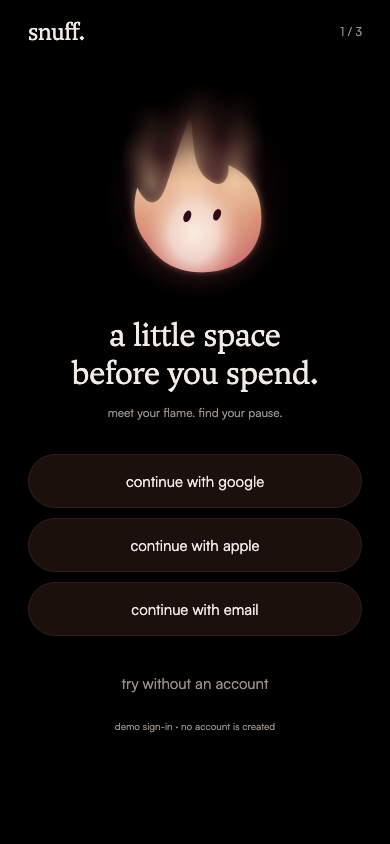
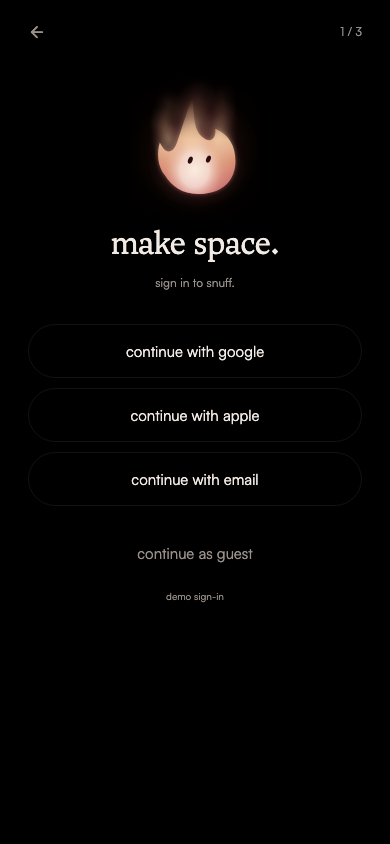
Simplify onboarding and add a flame-only welcome

diff --git a/design-system/snuff/index.html b/design-system/snuff/index.html
@@ -1,3 +1,3 @@
 <!doctype html><html lang="en"><meta charset="utf-8"><meta name="viewport" content="width=device-width,initial-scale=1"><title>snuff · design system</title><link rel="stylesheet" href="tokens.css"><style>
 *{box-sizing:border-box}body{margin:0;background:var(--snuff-colors-bg);color:var(--snuff-colors-text);font-family:var(--snuff-font-body);padding:48px 24px;max-width:1100px;margin:auto}h1,h2{font-family:var(--snuff-font-display);font-weight:400}h1{font-size:64px;margin:0}h2{font-size:32px}p{color:var(--snuff-colors-secondary);line-height:1.6;max-width:720px}a{color:var(--snuff-ember-body)}.flames,.previews{display:flex;gap:16px;flex-wrap:wrap}figure{margin:0;flex:1;min-width:130px;max-width:280px}img{width:100%;height:auto}figcaption{font-size:12px;margin-top:8px;font-family:var(--snuff-font-mono)}.swatches{display:flex;margin-bottom:24px}.swatches span{width:48px;height:32px}section{margin:64px 0}.previews img{width:min(230px,100%);object-fit:contain;align-self:flex-start}
-</style><h1>snuff.</h1><p>gpt-app ver · a small flame, a little space to pause.</p><p><a href="README.md">handoff notes</a> · <a href="tokens.json">json tokens</a> · <a href="tokens.css">css tokens</a> · <a href="https://www.figma.com/design/WHHOz06hrCV1a5g4nKBWt3/Design-System">figma source</a></p><h2>the living companion</h2><p>rounded, warm, quietly expressive. the first image captures the latest petting state; the others show screen composition.</p><div class="previews"><img src="previews/snuff-companion.jpg" alt="snuff companion"><img src="previews/snuff-home.jpg" alt="snuff home"><img src="previews/snuff-social.jpg" alt="snuff social"><img src="previews/snuff-faces.png" alt="snuff profile"></div><h2>original figma flame library</h2><p>six palettes, three native status levels. these original exports provide the atmosphere behind the rounded companion.</p><section><h2>ember</h2><div class="swatches"><span style="background:#FFF3D6" title="core: #FFF3D6"></span><span style="background:#FFD66B" title="body: #FFD66B"></span><span style="background:#F5A524" title="mid: #F5A524"></span><span style="background:#ED7014" title="edge: #ED7014"></span><span style="background:#8E1F02" title="deep: #8E1F02"></span><span style="background:#3A0F02" title="wash: #3A0F02"></span></div><div class="flames"><figure><img src="assets/flames/ember-high.svg" alt="ember high original flame"><figcaption>high</figcaption></figure><figure><img src="assets/flames/ember-low.svg" alt="ember low original flame"><figcaption>low</figcaption></figure><figure><img src="assets/flames/ember-out.svg" alt="ember out original flame"><figcaption>out</figcaption></figure></div></section><section><h2>azure</h2><div class="swatches"><span style="background:#EAFBFF" title="core: #EAFBFF"></span><span style="background:#9BE8FF" title="body: #9BE8FF"></span><span style="background:#43B9FF" title="mid: #43B9FF"></span><span style="background:#1D6BF5" title="edge: #1D6BF5"></span><span style="background:#0A1C7A" title="deep: #0A1C7A"></span><span style="background:#070F2E" title="wash: #070F2E"></span></div><div class="flames"><figure><img src="assets/flames/azure-high.svg" alt="azure high original flame"><figcaption>high</figcaption></figure><figure><img src="assets/flames/azure-low.svg" alt="azure low original flame"><figcaption>low</figcaption></figure><figure><img src="assets/flames/azure-out.svg" alt="azure out original flame"><figcaption>out</figcaption></figure></div></section><section><h2>verdigris</h2><div class="swatches"><span style="background:#F0FFE9" title="core: #F0FFE9"></span><span style="background:#B9F7A8" title="body: #B9F7A8"></span><span style="background:#52D97A" title="mid: #52D97A"></span><span style="background:#15A05A" title="edge: #15A05A"></span><span style="background:#05482F" title="deep: #05482F"></span><span style="background:#04200F" title="wash: #04200F"></span></div><div class="flames"><figure><img src="assets/flames/verdigris-high.svg" alt="verdigris high original flame"><figcaption>high</figcaption></figure><figure><img src="assets/flames/verdigris-low.svg" alt="verdigris low original flame"><figcaption>low</figcaption></figure><figure><img src="assets/flames/verdigris-out.svg" alt="verdigris out original flame"><figcaption>out</figcaption></figure></div></section><section><h2>violet</h2><div class="swatches"><span style="background:#FBEFFF" title="core: #FBEFFF"></span><span style="background:#E0BBFF" title="body: #E0BBFF"></span><span style="background:#B07CFF" title="mid: #B07CFF"></span><span style="background:#7A3CF0" title="edge: #7A3CF0"></span><span style="background:#2E0B6B" title="deep: #2E0B6B"></span><span style="background:#160530" title="wash: #160530"></span></div><div class="flames"><figure><img src="assets/flames/violet-high.svg" alt="violet high original flame"><figcaption>high</figcaption></figure><figure><img src="assets/flames/violet-low.svg" alt="violet low original flame"><figcaption>low</figcaption></figure><figure><img src="assets/flames/violet-out.svg" alt="violet out original flame"><figcaption>out</figcaption></figure></div></section><section><h2>crimson</h2><div class="swatches"><span style="background:#FFEDEC" title="core: #FFEDEC"></span><span style="background:#FFB3AE" title="body: #FFB3AE"></span><span style="background:#FF5F62" title="mid: #FF5F62"></span><span style="background:#D41F49" title="edge: #D41F49"></span><span style="background:#5C0426" title="deep: #5C0426"></span><span style="background:#2A0612" title="wash: #2A0612"></span></div><div class="flames"><figure><img src="assets/flames/crimson-high.svg" alt="crimson high original flame"><figcaption>high</figcaption></figure><figure><img src="assets/flames/crimson-low.svg" alt="crimson low original flame"><figcaption>low</figcaption></figure><figure><img src="assets/flames/crimson-out.svg" alt="crimson out original flame"><figcaption>out</figcaption></figure></div></section><section><h2>ash</h2><div class="swatches"><span style="background:#CFC5BE" title="core: #CFC5BE"></span><span style="background:#9A918B" title="body: #9A918B"></span><span style="background:#6B625C" title="mid: #6B625C"></span><span style="background:#3A3330" title="edge: #3A3330"></span><span style="background:#1C1A19" title="deep: #1C1A19"></span><span style="background:#0B0302" title="wash: #0B0302"></span></div><div class="flames"><figure><img src="assets/flames/ash-high.svg" alt="ash high original flame"><figcaption>high</figcaption></figure><figure><img src="assets/flames/ash-low.svg" alt="ash low original flame"><figcaption>low</figcaption></figure><figure><img src="assets/flames/ash-out.svg" alt="ash out original flame"><figcaption>out</figcaption></figure></div></section><section><h2>a little intention</h2><p>scroll below home to set a goal and customize a five-step blocking plan. rules can be tested in an in-app checkout preview.</p><div class="previews"><img src="previews/snuff-home-goal.png" alt="home goal component"><img src="previews/snuff-goal-block-setup.png" alt="blocking settings flow"></div></section><section><h2>a quiet nudge</h2><p>a large companion, a simple choice, and a little company when you need it.</p><div class="previews"><img src="previews/snuff-notification.png" alt="snuff notification popup"><img src="previews/snuff-notification-friend.png" alt="friend request preview"></div></section><section><h2>for another day</h2><p>save a purchase without counting it as savings. revisit it in the dark lens-scroll archive.</p><div class="previews"><img src="previews/snuff-collection-detail.png" alt="archive sample collection"><img src="previews/snuff-save-for-later.png" alt="save for later notification action"></div></section><section><h2>a little company</h2><p>email or your phone’s contacts, with a deliberate selection before adding anyone.</p><div class="previews"><img src="previews/snuff-contacts.png" alt="sync contacts alongside email"></div></section><section><h2>a small beginning</h2><p>three screens · demo sign-in, optional categories, and personal popup intensity.</p><div class="previews"><img src="previews/snuff-onboarding-1.png" alt="onboarding step 1"><img src="previews/snuff-onboarding-2.png" alt="onboarding step 2"><img src="previews/snuff-onboarding-3.png" alt="onboarding step 3"></div></section></html>
+</style><h1>snuff.</h1><p>gpt-app ver · a small flame, a little space to pause.</p><p><a href="README.md">handoff notes</a> · <a href="tokens.json">json tokens</a> · <a href="tokens.css">css tokens</a> · <a href="https://www.figma.com/design/WHHOz06hrCV1a5g4nKBWt3/Design-System">figma source</a></p><h2>the living companion</h2><p>rounded, warm, quietly expressive. the first image captures the latest petting state; the others show screen composition.</p><div class="previews"><img src="previews/snuff-companion.jpg" alt="snuff companion"><img src="previews/snuff-home.jpg" alt="snuff home"><img src="previews/snuff-social.jpg" alt="snuff social"><img src="previews/snuff-faces.png" alt="snuff profile"></div><h2>original figma flame library</h2><p>six palettes, three native status levels. these original exports provide the atmosphere behind the rounded companion.</p><section><h2>ember</h2><div class="swatches"><span style="background:#FFF3D6" title="core: #FFF3D6"></span><span style="background:#FFD66B" title="body: #FFD66B"></span><span style="background:#F5A524" title="mid: #F5A524"></span><span style="background:#ED7014" title="edge: #ED7014"></span><span style="background:#8E1F02" title="deep: #8E1F02"></span><span style="background:#3A0F02" title="wash: #3A0F02"></span></div><div class="flames"><figure><img src="assets/flames/ember-high.svg" alt="ember high original flame"><figcaption>high</figcaption></figure><figure><img src="assets/flames/ember-low.svg" alt="ember low original flame"><figcaption>low</figcaption></figure><figure><img src="assets/flames/ember-out.svg" alt="ember out original flame"><figcaption>out</figcaption></figure></div></section><section><h2>azure</h2><div class="swatches"><span style="background:#EAFBFF" title="core: #EAFBFF"></span><span style="background:#9BE8FF" title="body: #9BE8FF"></span><span style="background:#43B9FF" title="mid: #43B9FF"></span><span style="background:#1D6BF5" title="edge: #1D6BF5"></span><span style="background:#0A1C7A" title="deep: #0A1C7A"></span><span style="background:#070F2E" title="wash: #070F2E"></span></div><div class="flames"><figure><img src="assets/flames/azure-high.svg" alt="azure high original flame"><figcaption>high</figcaption></figure><figure><img src="assets/flames/azure-low.svg" alt="azure low original flame"><figcaption>low</figcaption></figure><figure><img src="assets/flames/azure-out.svg" alt="azure out original flame"><figcaption>out</figcaption></figure></div></section><section><h2>verdigris</h2><div class="swatches"><span style="background:#F0FFE9" title="core: #F0FFE9"></span><span style="background:#B9F7A8" title="body: #B9F7A8"></span><span style="background:#52D97A" title="mid: #52D97A"></span><span style="background:#15A05A" title="edge: #15A05A"></span><span style="background:#05482F" title="deep: #05482F"></span><span style="background:#04200F" title="wash: #04200F"></span></div><div class="flames"><figure><img src="assets/flames/verdigris-high.svg" alt="verdigris high original flame"><figcaption>high</figcaption></figure><figure><img src="assets/flames/verdigris-low.svg" alt="verdigris low original flame"><figcaption>low</figcaption></figure><figure><img src="assets/flames/verdigris-out.svg" alt="verdigris out original flame"><figcaption>out</figcaption></figure></div></section><section><h2>violet</h2><div class="swatches"><span style="background:#FBEFFF" title="core: #FBEFFF"></span><span style="background:#E0BBFF" title="body: #E0BBFF"></span><span style="background:#B07CFF" title="mid: #B07CFF"></span><span style="background:#7A3CF0" title="edge: #7A3CF0"></span><span style="background:#2E0B6B" title="deep: #2E0B6B"></span><span style="background:#160530" title="wash: #160530"></span></div><div class="flames"><figure><img src="assets/flames/violet-high.svg" alt="violet high original flame"><figcaption>high</figcaption></figure><figure><img src="assets/flames/violet-low.svg" alt="violet low original flame"><figcaption>low</figcaption></figure><figure><img src="assets/flames/violet-out.svg" alt="violet out original flame"><figcaption>out</figcaption></figure></div></section><section><h2>crimson</h2><div class="swatches"><span style="background:#FFEDEC" title="core: #FFEDEC"></span><span style="background:#FFB3AE" title="body: #FFB3AE"></span><span style="background:#FF5F62" title="mid: #FF5F62"></span><span style="background:#D41F49" title="edge: #D41F49"></span><span style="background:#5C0426" title="deep: #5C0426"></span><span style="background:#2A0612" title="wash: #2A0612"></span></div><div class="flames"><figure><img src="assets/flames/crimson-high.svg" alt="crimson high original flame"><figcaption>high</figcaption></figure><figure><img src="assets/flames/crimson-low.svg" alt="crimson low original flame"><figcaption>low</figcaption></figure><figure><img src="assets/flames/crimson-out.svg" alt="crimson out original flame"><figcaption>out</figcaption></figure></div></section><section><h2>ash</h2><div class="swatches"><span style="background:#CFC5BE" title="core: #CFC5BE"></span><span style="background:#9A918B" title="body: #9A918B"></span><span style="background:#6B625C" title="mid: #6B625C"></span><span style="background:#3A3330" title="edge: #3A3330"></span><span style="background:#1C1A19" title="deep: #1C1A19"></span><span style="background:#0B0302" title="wash: #0B0302"></span></div><div class="flames"><figure><img src="assets/flames/ash-high.svg" alt="ash high original flame"><figcaption>high</figcaption></figure><figure><img src="assets/flames/ash-low.svg" alt="ash low original flame"><figcaption>low</figcaption></figure><figure><img src="assets/flames/ash-out.svg" alt="ash out original flame"><figcaption>out</figcaption></figure></div></section><section><h2>a little intention</h2><p>scroll below home to set a goal and customize a five-step blocking plan. rules can be tested in an in-app checkout preview.</p><div class="previews"><img src="previews/snuff-home-goal.png" alt="home goal component"><img src="previews/snuff-goal-block-setup.png" alt="blocking settings flow"></div></section><section><h2>a quiet nudge</h2><p>a large companion, a simple choice, and a little company when you need it.</p><div class="previews"><img src="previews/snuff-notification.png" alt="snuff notification popup"><img src="previews/snuff-notification-friend.png" alt="friend request preview"></div></section><section><h2>for another day</h2><p>save a purchase without counting it as savings. revisit it in the dark lens-scroll archive.</p><div class="previews"><img src="previews/snuff-collection-detail.png" alt="archive sample collection"><img src="previews/snuff-save-for-later.png" alt="save for later notification action"></div></section><section><h2>a little company</h2><p>email or your phone’s contacts, with a deliberate selection before adding anyone.</p><div class="previews"><img src="previews/snuff-contacts.png" alt="sync contacts alongside email"></div></section><section><h2>a small beginning</h2><p>a living-flame welcome, then three concise steps.</p><div class="previews"><img src="previews/snuff-welcome.png" alt="flame-only welcome"><img src="previews/snuff-onboarding-1.png" alt="onboarding step 1"><img src="previews/snuff-onboarding-2.png" alt="onboarding step 2"><img src="previews/snuff-onboarding-3.png" alt="onboarding step 3"></div></section></html>

diff --git a/GPT-App Ver/src/screens/Onboarding.tsx b/GPT-App Ver/src/screens/Onboarding.tsx
@@ -1,5 +1,5 @@
 import React, { useState } from 'react';
-import { Pressable, ScrollView, View } from 'react-native';
+import { Pressable, ScrollView, View, useWindowDimensions } from 'react-native';
 import { router, useLocalSearchParams } from 'expo-router';
 import { useSafeAreaInsets } from 'react-native-safe-area-context';
 import { Mascot } from '../components/Mascot';
@@ -13,8 +13,9 @@ import { useStore } from '../state/Store';
 export default function Onboarding() {
   const { state, dispatch } = useStore();
   const insets = useSafeAreaInsets();
+  const { width, height } = useWindowDimensions();
   const { edit } = useLocalSearchParams<{ edit?: string }>();
-  const [step, setStep] = useState(edit === '1' && state.onboardingComplete ? 1 : 0);
+  const [step, setStep] = useState(edit === '1' && state.onboardingComplete ? 1 : -1);
   const [categories, setCategories] = useState(state.spendingCategories);
   const [strength, setStrength] = useState(state.burnRate);
   const [provider, setProvider] = useState<string | null>(null);
@@ -25,6 +26,40 @@ export default function Onboarding() {
     dispatch({ type: 'COMPLETE_ONBOARDING', categories, strength });
     router.replace('/');
   };
+  if (step === -1)
+    return (
+      <View
+        style={{
+          flex: 1,
+          backgroundColor: colors.bg,
+          paddingTop: insets.top,
+          paddingBottom: insets.bottom,
+        }}
+      >
+        <View style={{ flex: 1, alignItems: 'center', justifyContent: 'center' }}>
+          <Mascot hue={state.hue} size={Math.min(300, width - 40, height * 0.48)} />
+        </View>
+        <Pressable
+          accessibilityRole="button"
+          accessibilityLabel="begin onboarding"
+          onPress={() => setStep(0)}
+          style={{
+            position: 'absolute',
+            bottom: insets.bottom + 38,
+            alignSelf: 'center',
+            width: 52,
+            height: 52,
+            borderRadius: 26,
+            borderWidth: 1,
+            borderColor: colors.border,
+            alignItems: 'center',
+            justifyContent: 'center',
+          }}
+        >
+          <Icon name="arrow-right" size={20} color={p.body} />
+        </Pressable>
+      </View>
+    );
   return (
     <View
       style={{
@@ -48,41 +83,30 @@ export default function Onboarding() {
         >
           <Pressable
             accessibilityRole="button"
-            accessibilityLabel={step ? 'previous step' : 'snuff'}
-            disabled={!step}
+            accessibilityLabel="previous step"
             onPress={() => setStep(step - 1)}
             style={{ minWidth: 44, minHeight: 44, justifyContent: 'center' }}
           >
-            {step ? (
-              <Icon name="arrow-left" size={18} />
-            ) : (
-              <T variant="title" style={{ fontSize: 24 }}>
-                snuff.
-              </T>
-            )}
+            <Icon name="arrow-left" size={18} />
           </Pressable>
           <T variant="small">{step + 1} / 3</T>
         </View>
         <View style={{ alignItems: 'center', marginVertical: 8 }}>
           <Mascot
             hue={state.hue}
-            size={step === 0 ? 210 : 158}
+            size={128}
             intensity={step === 2 && strength < 34 ? 'Low' : undefined}
           />
         </View>
         <T variant="title" style={{ textAlign: 'center', fontSize: 32, lineHeight: 38 }}>
-          {step === 0
-            ? 'a little space\nbefore you spend.'
-            : step === 1
-              ? 'where do you\nget carried away?'
-              : 'how much of\na nudge?'}
+          {step === 0 ? 'make space.' : step === 1 ? 'what pulls you in?' : 'find your balance.'}
         </T>
         <T variant="small" style={{ textAlign: 'center', marginTop: 12, marginBottom: 24 }}>
           {step === 0
-            ? 'meet your flame. find your pause.'
+            ? 'sign in to snuff.'
             : step === 1
-              ? 'pick what feels familiar. no judgment.'
-              : 'your flame follows your pace. change this anytime.'}
+              ? 'choose any. or skip.'
+              : 'a little nudge, or a firmer pause.'}
         </T>
         {step === 0 ? (
           <View style={{ gap: 10, marginTop: 8 }}>
@@ -97,7 +121,7 @@ export default function Onboarding() {
                   borderRadius: 28,
                   borderWidth: 1,
                   borderColor: colors.border,
-                  backgroundColor: colors.surface,
+                  backgroundColor: 'transparent',
                   flexDirection: 'row',
                   alignItems: 'center',
                   justifyContent: 'center',
@@ -108,10 +132,10 @@ export default function Onboarding() {
               </Pressable>
             ))}
             <QuietButton secondary onPress={() => setStep(1)}>
-              try without an account
+              continue as guest
             </QuietButton>
             <T variant="small" style={{ textAlign: 'center', fontSize: 10 }}>
-              demo sign-in · no account is created
+              demo sign-in
             </T>
           </View>
         ) : step === 1 ? (
@@ -143,14 +167,21 @@ export default function Onboarding() {
                     }}
                   >
                     <T style={{ fontSize: 13 }} color={chosen ? p.body : colors.secondary}>
-                      {category}
+                      {(
+                        {
+                          'clothes & beauty': 'shopping',
+                          'tech & gadgets': 'tech',
+                          'food & delivery': 'food',
+                          'games & in-app purchases': 'gaming',
+                        } as Record<string, string>
+                      )[category] || category}
                     </T>
                   </Pressable>
                 );
               })}
             </View>
             <T variant="small" style={{ marginTop: 22, textAlign: 'center', fontSize: 11 }}>
-              optional · saved only on this device
+              private to this device
             </T>
             <View style={{ flex: 1, minHeight: 22 }} />
             <QuietButton onPress={() => setStep(2)}>continue</QuietButton>
@@ -161,7 +192,7 @@ export default function Onboarding() {
                 setStep(2);
               }}
             >
-              prefer not to say
+              skip
             </QuietButton>
           </>
         ) : (
@@ -184,28 +215,24 @@ export default function Onboarding() {
             </View>
             <View
               style={{
-                borderRadius: 24,
-                padding: 22,
-                borderWidth: 1,
+                paddingVertical: 24,
+                borderTopWidth: 1,
                 borderColor: colors.border,
-                backgroundColor: colors.surface,
+                alignItems: 'center',
               }}
             >
               <T variant="small" style={{ fontSize: 10, marginBottom: 10 }}>
-                your popup · preview
+                popup preview
               </T>
               <T variant="title" style={{ fontSize: 24, lineHeight: 30 }}>
                 {support.title}
               </T>
-              <T variant="small" style={{ marginTop: 8 }}>
-                {support.detail}
-              </T>
             </View>
             <T variant="small" style={{ textAlign: 'center', fontSize: 11, marginTop: 16 }}>
-              a reminder, never a lock. you’re always in control.
+              change this anytime.
             </T>
             <View style={{ flex: 1, minHeight: 20 }} />
-            <QuietButton onPress={finish}>meet your snuff</QuietButton>
+            <QuietButton onPress={finish}>start</QuietButton>
           </>
         )}
       </ScrollView>

diff --git a/GPT-App Ver/tests/e2e/onboarding.spec.ts b/GPT-App Ver/tests/e2e/onboarding.spec.ts
@@ -4,6 +4,8 @@ test('three-step demo onboarding saves categories and strength, then stays compl
   page,
 }) => {
   await page.goto('/');
+  await expect(page.getByTestId('flame-mascot')).toBeVisible();
+  await page.getByRole('button', { name: 'begin onboarding' }).click();
   await expect(
     page.getByRole('button', { name: 'continue with google', exact: true }),
   ).toBeVisible();
@@ -14,7 +16,7 @@ test('three-step demo onboarding saves categories and strength, then stays compl
   const slider = page.getByRole('slider', { name: 'popup strength' });
   await slider.fill('85');
   await expect(page.getByText('take a breath first.', { exact: true })).toBeVisible();
-  await page.getByRole('button', { name: 'meet your snuff', exact: true }).click();
+  await page.getByRole('button', { name: 'start', exact: true }).click();
   await expect(page.getByRole('tab', { name: 'home', exact: true })).toBeVisible();
   await page.reload();
   await expect(page.getByRole('tab', { name: 'home', exact: true })).toBeVisible();
@@ -30,11 +32,12 @@ test('three-step demo onboarding saves categories and strength, then stays compl
 test('email demo and optional categories work on a small phone', async ({ page }) => {
   await page.setViewportSize({ width: 320, height: 568 });
   await page.goto('/onboarding');
+  await page.getByRole('button', { name: 'begin onboarding' }).click();
   await page.getByRole('button', { name: 'continue with email', exact: true }).click();
   await page.getByRole('textbox', { name: 'email address' }).fill('demo@example.com');
   await page.getByRole('button', { name: 'continue', exact: true }).click();
-  await page.getByRole('button', { name: 'prefer not to say', exact: true }).click();
-  await page.getByRole('button', { name: 'meet your snuff', exact: true }).click();
+  await page.getByRole('button', { name: 'skip', exact: true }).click();
+  await page.getByRole('button', { name: 'start', exact: true }).click();
   await expect(page.getByRole('tab', { name: 'home', exact: true })).toBeVisible();
   const state = await page.evaluate(() => JSON.parse(localStorage.getItem('snuff.mobile.v2')!));
   expect(state.spendingCategories).toEqual([]);

diff --git a/GPT-App Ver/README.md b/GPT-App Ver/README.md
@@ -126,7 +126,7 @@ Slider feedback: all GlowSlider controls temporarily give the user’s flame hap
 
 ## Minimal onboarding
 
-Three screens: demo Google / Apple / email sign-in; optional spending categories; and a gentle-to-firm strength slider with a live popup preview. Open `/onboarding` to preview from the beginning. Profile → your spending preferences opens `/onboarding?edit=1`. New installations see onboarding; existing version-2 accounts retain access and can revisit it. Completion and categories persist locally; strength uses `burnRate`, adjusting popup wording and flame tempo. Categories are preferences, not diagnoses or connected merchant rules.
+A flame-only welcome with a small forward arrow leads into three concise screens: demo Google / Apple / email sign-in; optional spending categories; and a gentle-to-firm strength slider with a live popup preview. Open `/onboarding` to preview from the beginning. Profile → your spending preferences opens `/onboarding?edit=1`. New installations see onboarding; existing version-2 accounts retain access and can revisit it. Completion and categories persist locally; strength uses `burnRate`, adjusting popup wording and flame tempo. Categories are preferences, not diagnoses or connected merchant rules.
 
 Authentication is deliberately fake, as requested. Google and Apple advance locally; email validates syntax, then discards the address without sending or storing it. No account, session, or identity is established. Backend entry point: `src/screens/Onboarding.tsx` provider button callbacks and the email sheet. Replace these with the authentication provider and advance only on success; retain cancellation and guest entry. Google sign-in should not request Gmail inbox access. Preference completion dispatches `COMPLETE_ONBOARDING` in `src/state/model.ts`. Popup tone lives in `src/design/onboarding.ts`. No notification permission is requested during onboarding.
 

diff --git a/design-system/snuff/README.md b/design-system/snuff/README.md
@@ -92,7 +92,7 @@ Slider feedback: all GlowSlider controls temporarily give the user’s flame hap
 
 ## Minimal onboarding
 
-Three screens: demo Google / Apple / email sign-in; optional spending categories; and a gentle-to-firm strength slider with a live popup preview. Open `/onboarding` to preview from the beginning. Profile → your spending preferences opens `/onboarding?edit=1`. New installations see onboarding; existing version-2 accounts retain access and can revisit it. Completion and categories persist locally; strength uses `burnRate`, adjusting popup wording and flame tempo. Categories are preferences, not diagnoses or connected merchant rules.
+A flame-only welcome with a small forward arrow leads into three concise screens: demo Google / Apple / email sign-in; optional spending categories; and a gentle-to-firm strength slider with a live popup preview. Open `/onboarding` to preview from the beginning. Profile → your spending preferences opens `/onboarding?edit=1`. New installations see onboarding; existing version-2 accounts retain access and can revisit it. Completion and categories persist locally; strength uses `burnRate`, adjusting popup wording and flame tempo. Categories are preferences, not diagnoses or connected merchant rules.
 
 Authentication is deliberately fake, as requested. Google and Apple advance locally; email validates syntax, then discards the address without sending or storing it. No account, session, or identity is established. Backend entry point: `src/screens/Onboarding.tsx` provider button callbacks and the email sheet. Replace these with the authentication provider and advance only on success; retain cancellation and guest entry. Google sign-in should not request Gmail inbox access. Preference completion dispatches `COMPLETE_ONBOARDING` in `src/state/model.ts`. Popup tone lives in `src/design/onboarding.ts`. No notification permission is requested during onboarding.
 
